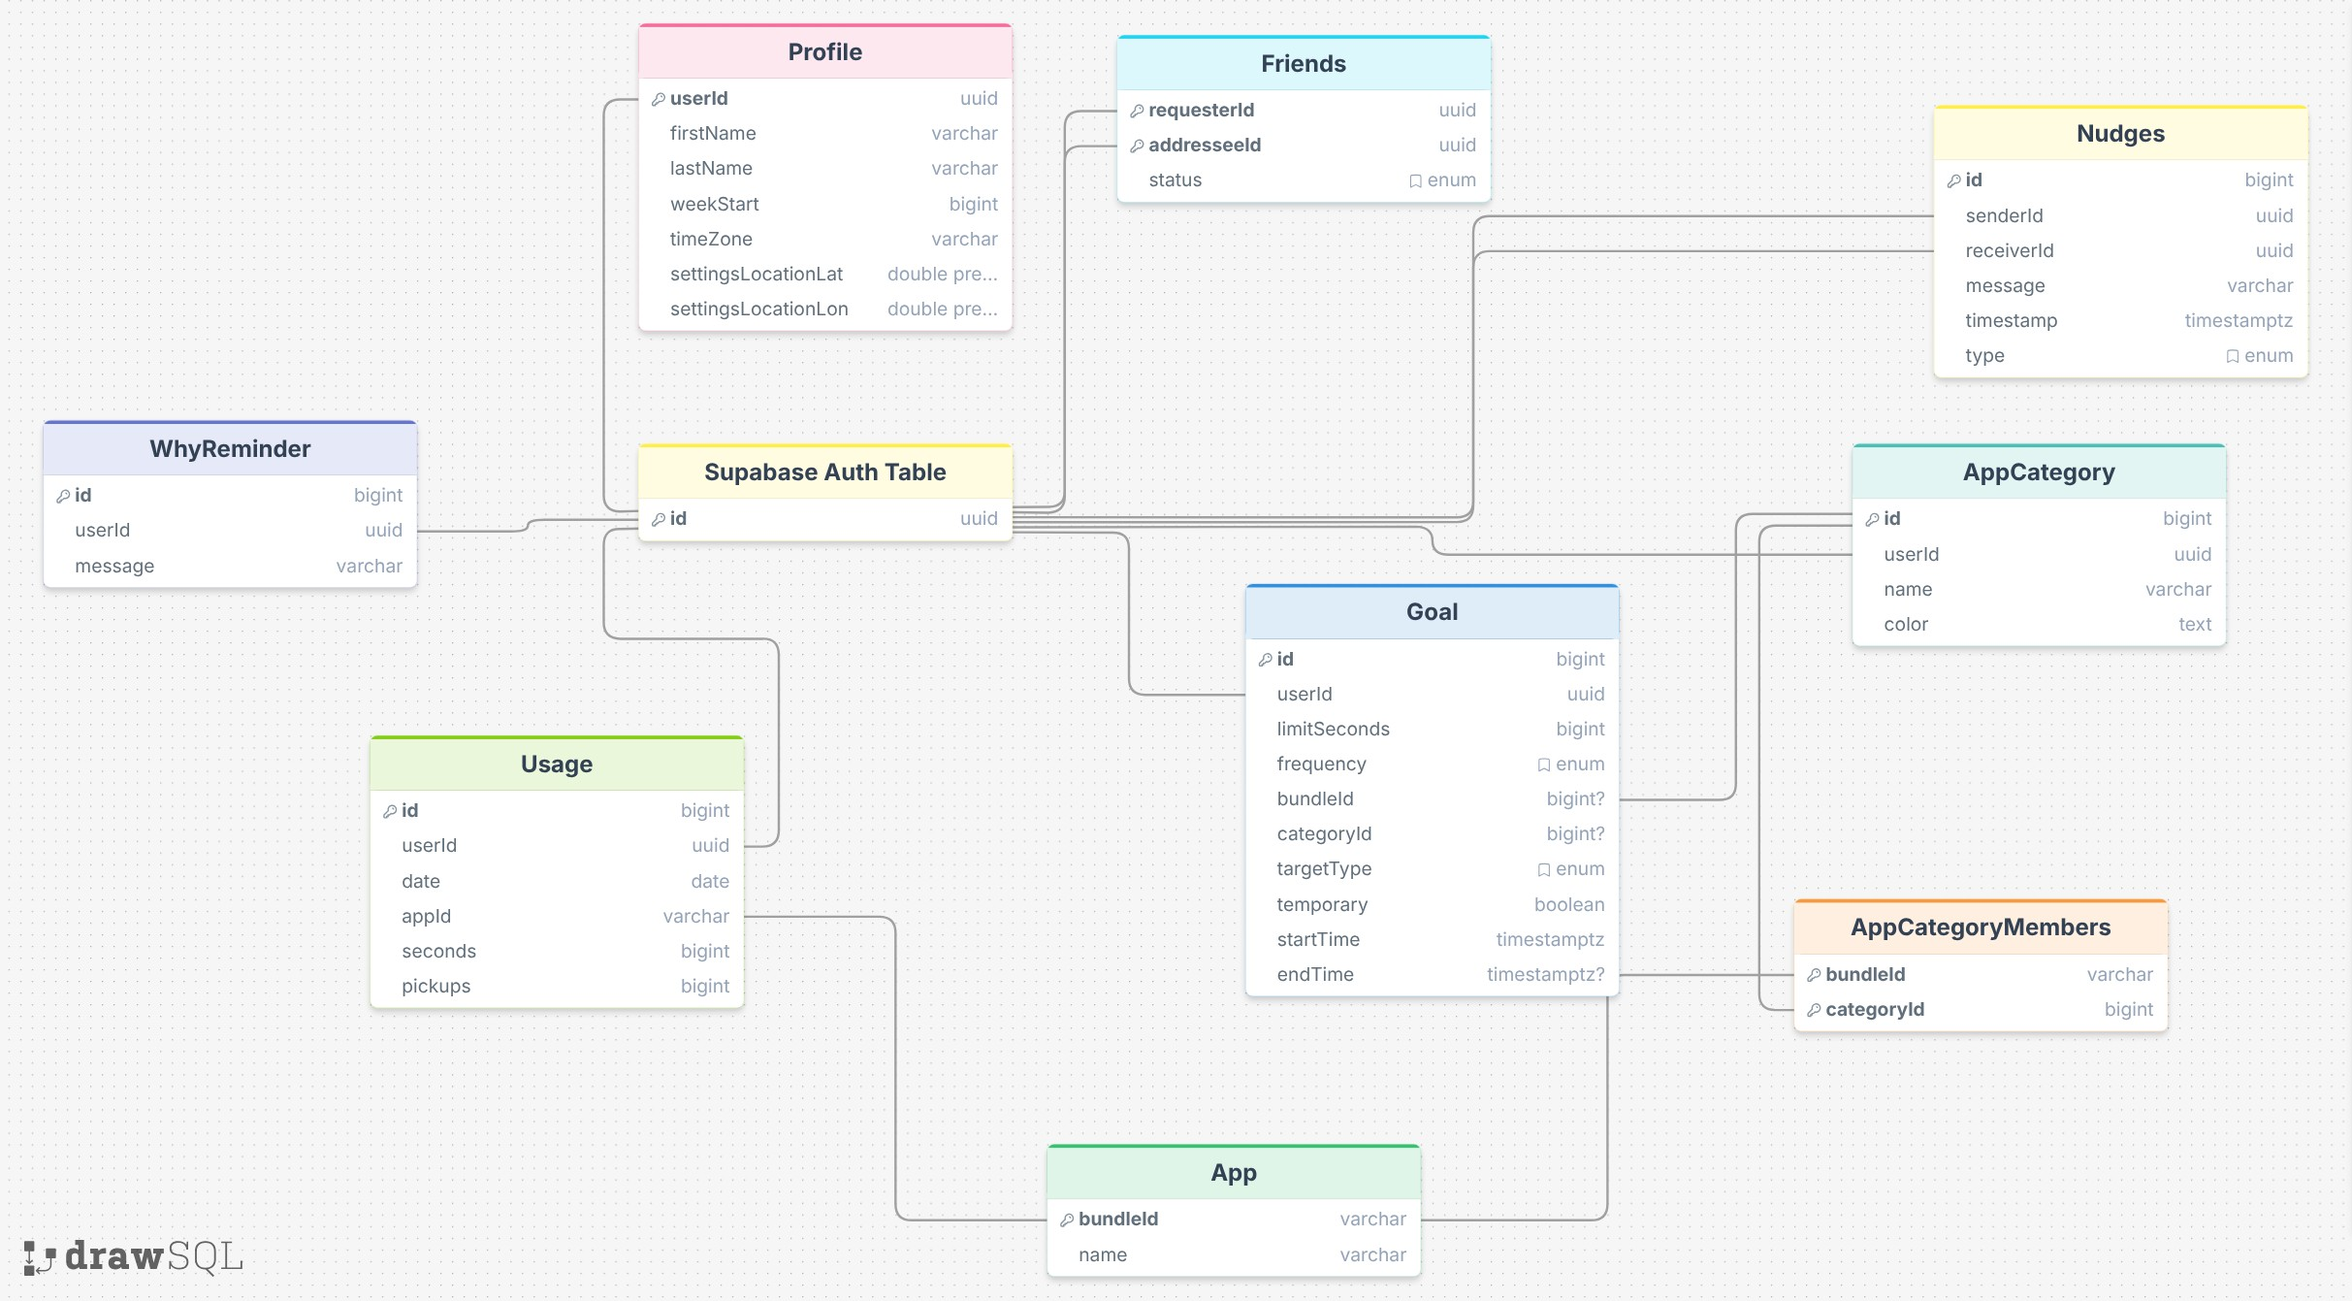
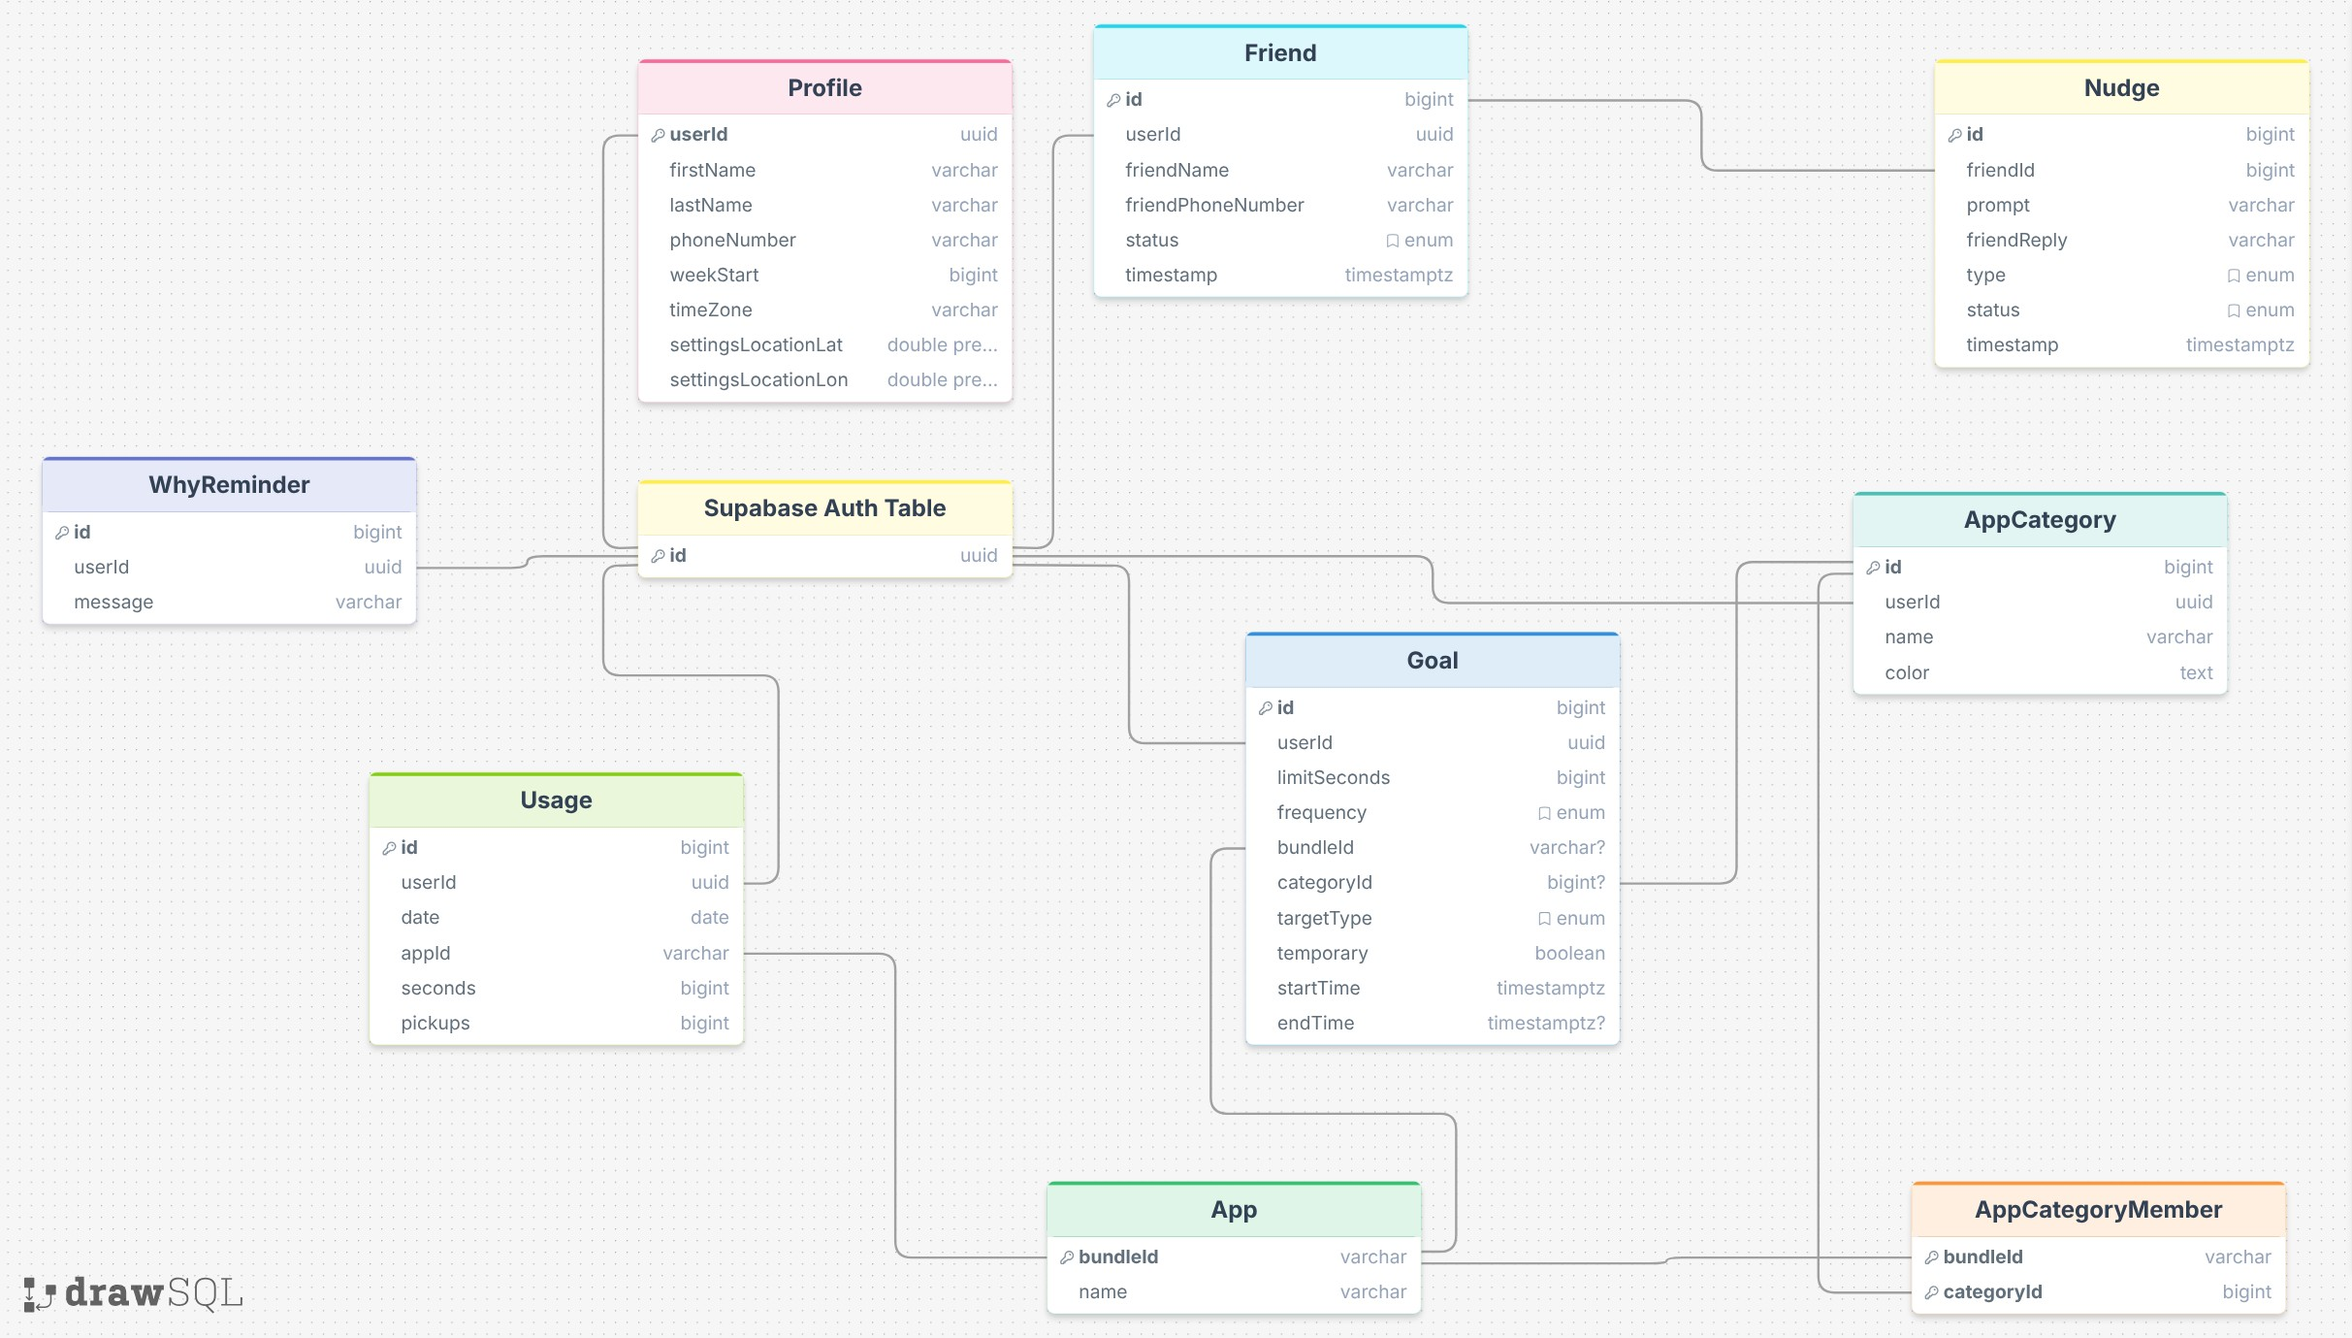
Updated ERD and docs to handle friends as phone numbers, not other users

diff --git a/docs/social.md b/docs/social.md
@@ -1,72 +1,167 @@
 # Social Layer
 
-Design for friend connections, shame nudges, and encouragement messages.
+Design for friend contacts and SMS-based accountability nudges.
 
 ---
 
 ## Overview
 
-The social layer allows users to connect with friends, see when they're overusing their phone, and send shame or encouragement nudges. This is an opt-in feature.
+Friends do not need to have the Nudge app. The app user stores a friend's name and phone number. When a usage threshold is hit, Nudge texts the friend via SMS with a prompt. The friend replies by text, and that reply is delivered back to the app user as both a push notification and an SMS.
 
 ---
 
-## Friend Connections
+## Data Model
 
-### Data Model
-See `database.md` — `friends` table with `requesterId`, `addresseeId`, `status`.
+### `friend`
+Stores the app user's contacts. No Supabase account required for the friend.
 
-### Flow
+| Column | Type | Notes |
+|---|---|---|
+| id | bigint | PK |
+| userId | uuid | FK → auth.users(id) — the app user who added this contact |
+| friendName | varchar | Display name |
+| friendPhoneNumber | varchar | E.164 format (`+18015551234`) |
+| status | enum | `pending`, `accepted`, `blocked` |
+| timestamp | timestamptz | UTC — when the consent SMS was sent |
 
-> TODO: Design the full friend request flow before Phase 6.
-> - How does a user find friends? By email? Username? QR code?
-> - How is a friend request delivered to the recipient? Push notification? In-app only?
-> - What does the friend list UI look like?
-> - Can a user see a friend's usage data? If so, how much — total daily time only, or per-app?
+**On `status`:**
+- `pending` — consent SMS has been sent, awaiting reply
+- `accepted` — friend replied yes; nudges can be sent
+- `blocked` — friend replied no or sent STOP; row is kept for history but no nudges are sent
 
-### Privacy Considerations
+**On rejection:** If the friend replies no, a notification is sent to the app user and the row is deleted. `blocked` is reserved for explicit opt-outs (Twilio STOP) where regulations require you to honor the request permanently.
 
-> TODO: Define what data is visible between friends.
-> - Does the recipient explicitly consent to sharing usage data when accepting a request?
-> - Can a user hide specific apps from friends?
-> - Is usage data shared in real-time (Supabase Realtime) or on a delay?
+### `nudge`
+Tracks each SMS nudge sent to a friend and their reply.
 
----
+| Column | Type | Notes |
+|---|---|---|
+| id | bigint | PK |
+| friendId | bigint | FK → friend(id) |
+| prompt | varchar | The message options sent to the friend |
+| friendReply | varchar | The friend's reply text (populated by webhook) |
+| type | enum | `shame`, `encouragement` |
+| status | enum | `sent_to_friend`, `replied`, `delivered_to_user`, `failed` |
+| timestamp | timestamptz | UTC — when the nudge was sent |
 
-## Nudges
+**Note:** The app user is derivable via `friend.userId` — no separate `receiverId` column needed on `nudge`.
 
-A nudge is a shame or encouragement message sent from one user to another.
-
-### Shame Nudge
-Sent when a friend has been on their phone too long. Intent is lighthearted accountability.
-
-> TODO: Define trigger conditions.
-> - Manual only (user decides to nudge), or can it be automated (auto-nudge when friend exceeds X hours)?
-> - If automated, how does the sender's app know the friend's usage? Via Supabase query against the friend's usage rows?
-
-### Encouragement Reply
-A reply to a shame nudge — positive reinforcement.
-
-> TODO: Define reply flow.
-> - Is a reply always in response to a nudge, or can encouragements be sent independently?
-> - Is there a message history / thread view, or just one-off messages?
-
-### Delivery
-Push notifications via APNs. See `notifications.md` for the proposed delivery flow.
+### `profiles.phoneNumber`
+The app user's own phone number, stored so they can also receive the friend's reply as an SMS (in addition to a push notification).
 
 ---
 
-## Supabase Realtime
+## Friend Consent Flow
 
-> TODO: Determine where Supabase Realtime is used in the social layer.
-> - Real-time delivery of nudges when the app is open (as opposed to relying on push when backgrounded)?
-> - Live friend list showing who is currently over their limit?
+Before nudges can be sent, the friend must consent via SMS.
+
+```
+1. App user adds a friend (name + phone number)
+         ↓
+2. App inserts friend row with status = pending, timestamp = now
+         ↓
+3. send-consent Edge Function sends SMS to friend:
+   "Hey, [User] wants to add you as an accountability buddy on Nudge.
+    Reply YES to allow or NO to decline."
+         ↓
+4. Friend replies
+         ↓
+5. receive-reply Edge Function (inbound webhook) routes the reply:
+   — Finds pending friend row for this phone number
+   — YES → status = accepted
+   — NO  → notify app user, delete friend row
+   — STOP → status = blocked (permanent, per Twilio regulations)
+```
+
+---
+
+## SMS Nudge Flow
+
+Only runs for friends with `status = accepted`.
+
+```
+1. App user's usage threshold is hit
+         ↓
+2. App triggers a nudge (inserts nudge row with status = sent_to_friend)
+         ↓
+3. send-nudge Edge Function sends SMS to friend via Twilio
+   — Message includes the prompt and reply options (1, 2, or custom)
+         ↓
+4. Friend replies by text
+         ↓
+5. receive-reply Edge Function (inbound webhook) routes the reply:
+   — No pending friend row for this number → treat as nudge reply
+   — Maps to most recent sent_to_friend nudge for that phone number
+   — Updates nudge.friendReply and nudge.status = replied
+         ↓
+6. Edge Function delivers reply to app user:
+   a. APNs push notification (if app is installed and notifications enabled)
+   b. SMS to profiles.phoneNumber
+   — Updates nudge.status = delivered_to_user
+```
+
+---
+
+## Inbound Reply Routing
+
+The `receive-reply` Edge Function handles all inbound SMS and routes based on the sender's phone number:
+
+1. Look up `friend` row by `friendPhoneNumber`
+2. If `friend.status = pending` → this is a consent reply → handle as friend request response
+3. Otherwise → this is a nudge reply → find most recent `nudge` with `status = sent_to_friend` for that `friend.id`
+
+This keeps routing unambiguous: a phone number can't have a pending consent and an active nudge at the same time (nudges are only sent to accepted friends).
+
+> TODO: Decide whether to enforce a "one active nudge per friend" constraint at the app level, or handle the edge case in the Edge Function by taking the most recent `timestamp`.
+
+---
+
+## SMS Provider
+
+**Twilio** is the recommended provider.
+
+> TODO: Set up Twilio account and document:
+> - The Twilio phone number used for outbound SMS
+> - The webhook URL for inbound replies (points to the Supabase Edge Function)
+> - How Twilio credentials are stored (Supabase secrets, not in code)
+
+---
+
+## Edge Functions Needed
+
+| Function | Trigger | Purpose |
+|---|---|---|
+| `send-consent` | DB webhook on friend insert (status = pending) | Sends consent SMS to friend via Twilio |
+| `send-nudge` | DB webhook on nudge insert (status = sent_to_friend) | Sends nudge SMS to friend via Twilio |
+| `receive-reply` | Twilio inbound webhook | Routes reply — consent or nudge — updates status, delivers to app user |
+
+> TODO: Design and implement all three Edge Functions before Phase 6.
+
+---
+
+## Phone Number Handling
+
+- Store all phone numbers in E.164 format: `+18015551234`
+- Validate format on input in the app before saving
+- `profiles.phoneNumber` is nullable — users who don't want SMS delivery of replies don't need to provide it. Push notification is always the primary delivery mechanism.
+
+---
+
+## Privacy Considerations
+
+- Friend phone numbers are stored in Supabase and used only for outbound nudges
+- The friend is informed via the SMS message itself what the app is and who is sending it
+- App user's phone number is used only for reply delivery, never shared with friends
+
+> TODO: Write the SMS message copy carefully — it must be clear to the friend what they're responding to and who the sender is, to avoid being flagged as spam.
 
 ---
 
 ## Open Questions
 
 > TODO: Answer before Phase 6 (Social Layer):
-> - Friend discovery mechanism — email lookup requires storing/querying emails carefully (privacy)
-> - How much of a friend's usage data is shared, and does the friend consent explicitly at request time?
-> - Is there a rate limit on nudges to prevent spam?
-> - How do device tokens get stored and rotated (users may have multiple devices)?
+> - Twilio account setup and number provisioning
+> - Rate limiting — how many nudges can be sent to a friend per day to avoid spam?
+> - What happens if a friend replies after a long delay (nudge is already `delivered_to_user`)?
+> - Should the app user be able to customize the prompt options sent to the friend?
+> - Opt-out mechanism — what if the friend texts "STOP"? Twilio handles this automatically but it needs to be handled gracefully in the app.

diff --git a/docs/database.md b/docs/database.md
@@ -63,6 +63,7 @@ Extends Supabase Auth with user-specific settings.
 | user_id | uuid | FK → auth.users(id), PK |
 | firstName | varchar | |
 | lastName | varchar | |
+| phoneNumber | varchar | E.164 format — used to receive friend SMS replies |
 | weekStart | int | 0 = Sunday, 1 = Monday, etc. |
 | timeZone | varchar | IANA timezone string (e.g. `America/Denver`) |
 | settingsLocationLat | double precision | For location-based settings lock |
@@ -139,28 +140,34 @@ Motivational reminders sent as notifications to help users stay intentional. Not
 | userId | uuid | FK → auth.users(id) |
 | message | varchar | The reminder text |
 
-### `friends`
-Self-referential friendship table. Directional at creation (requester → addressee), symmetric once accepted.
-
-| Column | Type | Notes |
-|---|---|---|
-| requesterId | uuid | FK → auth.users(id) |
-| addresseeId | uuid | FK → auth.users(id) |
-| status | enum | `pending`, `accepted`, `blocked` |
-
-**Naming note:** `addresseeId` is the person receiving the request. `status` tracks whether they've accepted — the column name does not imply acceptance.
-
-### `nudges`
-Shame and encouragement messages sent between friends.
+### `friend`
+Stores the app user's contacts. Friends do not need a Supabase account or the app installed.
 
 | Column | Type | Notes |
 |---|---|---|
 | id | bigint | PK |
-| senderId | uuid | FK → auth.users(id) |
-| receiverId | uuid | FK → auth.users(id) |
-| message | varchar | |
-| timestamp | timestamptz | UTC |
+| userId | uuid | FK → auth.users(id) — the app user who added this contact |
+| friendName | varchar | Display name |
+| friendPhoneNumber | varchar | E.164 format (`+18015551234`) |
+| status | enum | `pending`, `accepted`, `blocked` |
+| timestamp | timestamptz | UTC — when the consent SMS was sent |
+
+**On `status`:** `pending` while awaiting consent reply; `accepted` once friend confirms; `blocked` for Twilio STOP opt-outs. Friends who reply no are deleted outright — no row retained.
+
+### `nudge`
+Tracks each SMS nudge sent to a friend and the friend's reply.
+
+| Column | Type | Notes |
+|---|---|---|
+| id | bigint | PK |
+| friendId | bigint | FK → friend(id) |
+| prompt | varchar | The message options sent to the friend via SMS |
+| friendReply | varchar | The friend's reply text (populated by Twilio webhook) |
 | type | enum | `shame`, `encouragement` |
+| status | enum | `sent_to_friend`, `replied`, `delivered_to_user`, `failed` |
+| timestamp | timestamptz | UTC — when the nudge was sent |
+
+**Note:** The app user is derivable via `friend.userId` — no separate receiver column is needed on `nudge`.
 
 ---
 
@@ -205,5 +212,5 @@ When evaluating a weekly goal, compute the week's start and end as UTC timestamp
 | Real-time today's usage | DeviceActivity | No — read on-device only |
 | Auth / identity | Supabase Auth | Managed by Supabase |
 | Goals and reminders | App-defined | Yes |
-| Friend connections | App-defined | Yes |
-| Social nudges | App-defined | Yes |
+| Friend contacts | App-defined (name + phone) | Yes — friends don't need the app |
+| SMS nudges and replies | Twilio webhook | Yes — in `nudge` table |

diff --git a/docs/notifications.md b/docs/notifications.md
@@ -9,9 +9,11 @@ Strategy for all notifications in the Nudge app — both local and push.
 | Type | Use Case | Mechanism |
 |---|---|---|
 | Local notifications | Usage thresholds, goal reminders, why reminders, unlock prompts | `UserNotifications` framework, scheduled on-device |
-| Push notifications (APNs) | Social nudges from friends | APNs via Supabase Edge Functions |
+| Push notifications (APNs) | Delivering a friend's SMS reply to the app user | APNs via Supabase Edge Function |
 
 Local notifications require no server. Push notifications require APNs setup and a server-side trigger.
+
+**Note on social nudges:** Outbound nudges to friends are sent via SMS (Twilio), not push notifications — friends don't have the app. APNs is used only to deliver the friend's reply *back* to the app user. The app user also receives the reply as an SMS to their phone number stored in `profiles.phoneNumber`. See `social.md` for the full flow.
 
 ---
 
@@ -52,20 +54,20 @@ A prompt shown when the user unlocks their phone asking whether they're being pr
 
 ## Push Notifications (APNs)
 
-Used exclusively for the social layer — shame and encouragement nudges between friends.
+Used to deliver a friend's SMS reply back to the app user when the app is installed.
 
 > TODO: Document APNs setup before Phase 6.
 > - APNs certificate or token-based auth (p8 key)? Token-based is recommended.
-> - How are device tokens collected and stored? (Likely a `device_tokens` table in Supabase)
-> - What triggers a push? A Supabase Edge Function listening to inserts on the `nudges` table via a database webhook?
+> - How are device tokens collected and stored? (A `device_tokens` table in Supabase, or stored on `profiles`)
+> - The `receive-reply` Edge Function (triggered by Twilio inbound webhook) sends the APNs push after updating the nudge row.
 
 ### Proposed Flow
-1. User A taps "Nudge" on User B in the friends list
-2. App inserts a row into `nudges` table
-3. Supabase database webhook triggers an Edge Function
-4. Edge Function sends APNs push to User B's device token(s)
+1. Twilio inbound webhook fires when a friend replies to the SMS nudge
+2. `receive-reply` Edge Function maps the reply to the correct nudge row
+3. Edge Function sends APNs push to the app user's device token
+4. Edge Function also sends SMS to `profiles.phoneNumber` as a fallback
 
-> TODO: Design the Edge Function. What payload does the push notification carry? Does it deep-link into the app?
+> TODO: Design the push payload. Should it deep-link into the nudge history screen in the app?
 
 ---
 

diff --git a/docs/auth.md b/docs/auth.md
@@ -100,13 +100,16 @@ create policy "Users can manage their own rows"
 
 ### Special cases:
 
-- **`friends`** — a user needs to read rows where they are either `requesterId` or `addresseeId`:
+- **`friend`** — users only see their own contacts (`user_id = auth.uid()`). Standard pattern applies.
+- **`nudge`** — no direct `user_id` column. RLS must join through `friend`:
   ```sql
-  using (auth.uid() = "requesterId" or auth.uid() = "addresseeId")
-  ```
-- **`nudges`** — a user needs to read rows where they are either `senderId` or `receiverId`:
-  ```sql
-  using (auth.uid() = "senderId" or auth.uid() = "receiverId")
+  using (
+    exists (
+      select 1 from friend
+      where friend.id = nudge.friend_id
+      and friend.user_id = auth.uid()
+    )
+  )
   ```
 - **`app`** — readable by all authenticated users (global registry); writable only by the system (no user-facing inserts):
   ```sql
